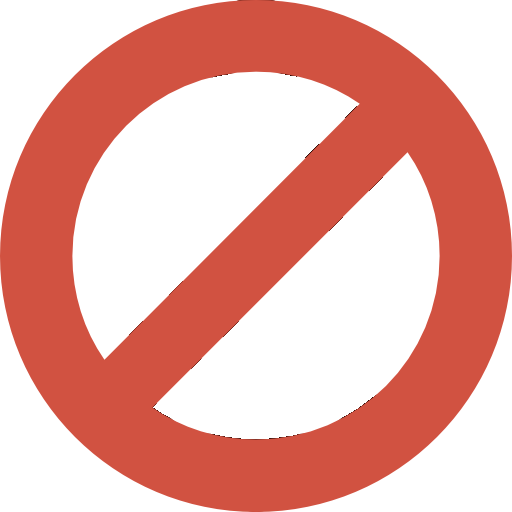
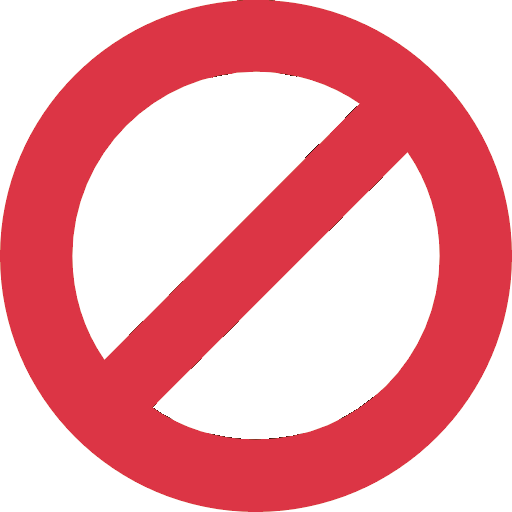
Added theme cookie and made continue automatic

diff --git a/script/main.ts b/script/main.ts
@@ -1,9 +1,14 @@
 import {Game, GameOptions} from './engine/game.js';
 import {State} from './engine/urinal.js';
+import {Cookie} from "./utils/cookie.js";
 
 let game: Game
 
-const newGame = () => {
+/**
+ * Initializes a new game
+ * @since 1.0.0
+ */
+const newGame = (parent: HTMLElement) => {
     game = new Game(GameOptions.randomize())
     const urinals = game.getUrinals()
 
@@ -34,42 +39,85 @@ const newGame = () => {
         imageDiv.classList.add('png')
         element.appendChild(imageDiv)
 
-        document.getElementById('urinal-wrapper')!.appendChild(element)
+        parent.appendChild(element)
     })
 }
 
-document.addEventListener('DOMContentLoaded', () => {
+function configureTheme()
+{
+    const theme = Cookie.get('theme')
 
-    newGame()
-
-    Array.from(document.getElementsByClassName('urinal')).forEach(element => {
-        element.addEventListener('click', event => {
-            const target = event.currentTarget as HTMLElement
-            const ord = target.getAttribute('ord') as string
-            console.log(ord)
-
-            const urinal = game.getUrinals()[+ord]
-            const state = urinal.getState()
-
-            if(state == State.FREE)
-            {
-                const valid = game.validate(+ord)
-                if(valid)
-                    target.classList.add('success')
-            }
-            else
-            {
-                target.classList.add('failure')
-                setTimeout(() => target.classList.remove('failure'), 500)
-            }
-        })
-    })
+    document.getElementsByTagName('body')[0].setAttribute('data-bs-theme', theme ? theme : 'light')
+    document.getElementById('btn-'+theme+'mode')?.toggleAttribute('checked')
 
     document.getElementById('btn-darkmode')!.addEventListener('click', () => {
         document.getElementsByTagName('body')[0].setAttribute('data-bs-theme', 'dark')
+        Cookie.set('theme', 'dark')
     })
 
     document.getElementById('btn-lightmode')!.addEventListener('click', () => {
         document.getElementsByTagName('body')[0].setAttribute('data-bs-theme', 'light')
+        Cookie.set('theme', 'light')
+    })
+}
+
+function urinalClickEventHandler(event: Event)
+{
+    const target = event.currentTarget as HTMLElement
+    const ord = target.getAttribute('ord') as string
+    console.log(ord)
+
+    const urinal = game.getUrinals()[+ord]
+    const state = urinal.getState()
+
+    if(state == State.FREE)
+    {
+        const valid = game.validate(+ord)
+
+        if(valid)
+            target.classList.add('success')
+        else
+            target.classList.add('wrong')
+
+        Array.from(document.getElementsByClassName('urinal'))
+            .filter(e => e.getAttribute('ord') != ord)
+            .forEach(e => e.replaceWith(e.cloneNode(true)))
+
+        newGame(document.querySelector('.urinal-wrapper.right')!)
+
+        setTimeout(() => {
+            document.querySelector('.urinal-wrapper.right')!.classList.replace('right', 'focus')
+            document.querySelector('.urinal-wrapper.focus')!.classList.replace('focus', 'left')
+
+            const newRight = document.createElement('div')
+            newRight.classList.add('urinal-wrapper')
+            newRight.classList.add('right')
+
+            document.querySelector('main')?.appendChild(newRight)
+
+            Array.from(document.getElementsByClassName('urinal')).forEach(element => {
+                element.addEventListener('click', urinalClickEventHandler)
+            })
+
+            setTimeout(() => {
+                document.querySelectorAll('.urinal-wrapper.left').forEach(e => e.remove())
+            }, 300)
+        }, 1000)
+    }
+    else
+    {
+        target.classList.add('failure')
+        setTimeout(() => target.classList.remove('failure'), 500)
+    }
+}
+
+document.addEventListener('DOMContentLoaded', () => {
+
+    configureTheme()
+
+    newGame(document.querySelector('.urinal-wrapper.focus')!)
+
+    Array.from(document.getElementsByClassName('urinal')).forEach(element => {
+        element.addEventListener('click', urinalClickEventHandler)
     })
 })

diff --git a/index.html b/index.html
@@ -3,6 +3,7 @@
     <head>
         <meta charset="UTF-8">
         <script src="https://ajax.googleapis.com/ajax/libs/jquery/3.7.1/jquery.min.js"></script>
+        <script type="module" src="script/utils/cookie.js"></script>
         <script type="module" src="script/utils/random.js"></script>
         <script type="module" src="script/engine/urinal.js"></script>
         <script type="module" src="script/engine/game.js"></script>
@@ -12,13 +13,13 @@
         <link rel="stylesheet" href="style/style.css">
         <title>Title</title>
     </head>
-    <body class="bg-body" data-bs-theme="dark">
+    <body class="bg-body">
         <div id="turn-phone">
             <div class="png"></div>
         </div>
         <header>
             <div class="btn-group" role="group" aria-label="Dark mode toggle">
-                <input type="radio" class="btn-check" name="vbtn-radio" id="btn-darkmode" autocomplete="off" checked>
+                <input type="radio" class="btn-check" name="vbtn-radio" id="btn-darkmode" autocomplete="off">
                 <label class="btn btn-outline-primary" for="btn-darkmode"><svg xmlns="http://www.w3.org/2000/svg" width="16" height="16" fill="currentColor" class="bi bi-moon" viewBox="0 0 16 16">
                     <path d="M6 .278a.77.77 0 0 1 .08.858 7.2 7.2 0 0 0-.878 3.46c0 4.021 3.278 7.277 7.318 7.277q.792-.001 1.533-.16a.79.79 0 0 1 .81.316.73.73 0 0 1-.031.893A8.35 8.35 0 0 1 8.344 16C3.734 16 0 12.286 0 7.71 0 4.266 2.114 1.312 5.124.06A.75.75 0 0 1 6 .278M4.858 1.311A7.27 7.27 0 0 0 1.025 7.71c0 4.02 3.279 7.276 7.319 7.276a7.32 7.32 0 0 0 5.205-2.162q-.506.063-1.029.063c-4.61 0-8.343-3.714-8.343-8.29 0-1.167.242-2.278.681-3.286"/>
                 </svg></label>
@@ -29,8 +30,8 @@
             </div>
         </header>
         <main>
-            <div class="urinal-wrapper" id="urinal-wrapper">
-            </div>
+            <div class="urinal-wrapper focus"></div>
+            <div class="urinal-wrapper right"></div>
         </main>
         <footer>
             <a href="https://www.flaticon.com/free-icons/urinal" title="urinal icons">Urinal icons created by Good Ware - Flaticon</a>

diff --git a/style/style.css b/style/style.css
@@ -3,6 +3,11 @@
     box-sizing: border-box;
 }
 
+body
+{
+    overflow-x: hidden;
+}
+
 @keyframes blink
 {
     0% {
@@ -10,7 +15,7 @@
     }
 
     25% {
-        border-color: red;
+        border-color: var(--bs-danger);
     }
 
     50% {
@@ -18,7 +23,7 @@
     }
 
     75% {
-        border-color: red;
+        border-color: var(--bs-danger);
     }
 
     100% {
@@ -32,10 +37,30 @@
     display: flex;
     flex-direction: row;
     position: absolute;
+    transition: all ease-in-out .3s;
+}
+
+.urinal-wrapper.focus
+{
     left: 50%;
     top: 50%;
     transform: translate(-50%, -50%);
 }
+
+.urinal-wrapper.right
+{
+    left: 50%;
+    top: 50%;
+    transform: translate(100vw, -50%);
+}
+
+.urinal-wrapper.left
+{
+    left: 0;
+    top: 50%;
+    transform: translate(-100vw, -50%);
+}
+
 
 .urinal
 {
@@ -83,6 +108,11 @@
     background: var(--bs-success-bg-subtle);
 }
 
+.urinal.wrong
+{
+    background: var(--bs-danger-bg-subtle);
+}
+
 .urinal.failure
 {
     border: 3px solid transparent;
@@ -110,6 +140,11 @@
 [data-bs-theme=dark] .urinal.success
 {
     background: var(--bs-success);
+}
+
+[data-bs-theme=dark] .urinal.wrong
+{
+    background: var(--bs-danger);
 }
 
 header

diff --git a/script/utils/cookie.ts b/script/utils/cookie.ts
@@ -1,0 +1,20 @@
+export class Cookie
+{
+    public static get(key: string): string | undefined
+    {
+        return document.cookie
+            .split('; ')
+            .find(e => e.startsWith(key + '='))
+            ?.split('=')[1]
+    }
+
+    public static set(key: string, value: string): void
+    {
+        const expireDate = new Date()
+        expireDate.setMonth(expireDate.getMonth() + 1)
+
+        console.log(key + '=' + value + '; expires=' + expireDate.toUTCString() + '')
+
+        document.cookie = key + '=' + value + '; expires=' + expireDate.toUTCString() + ''
+    }
+}
